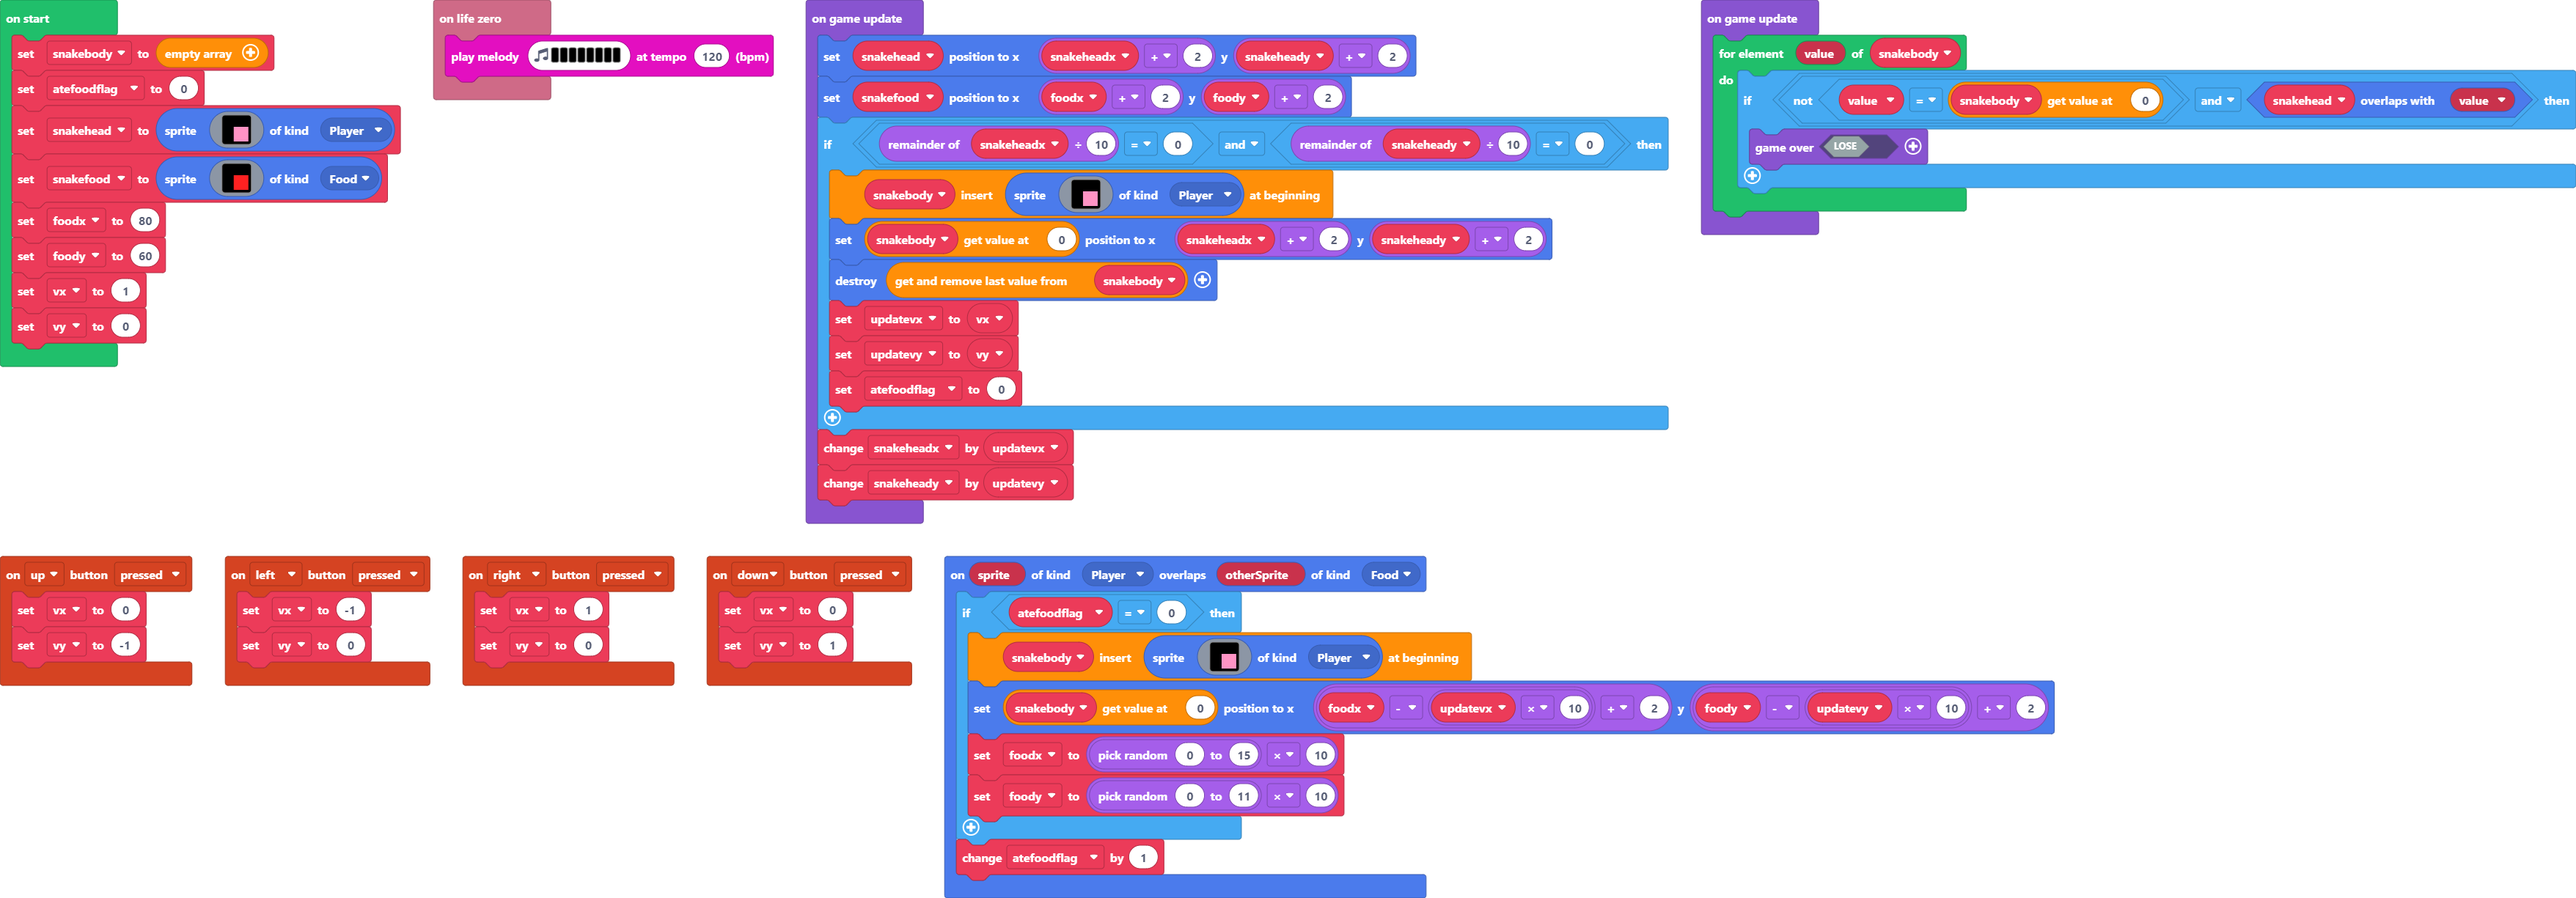
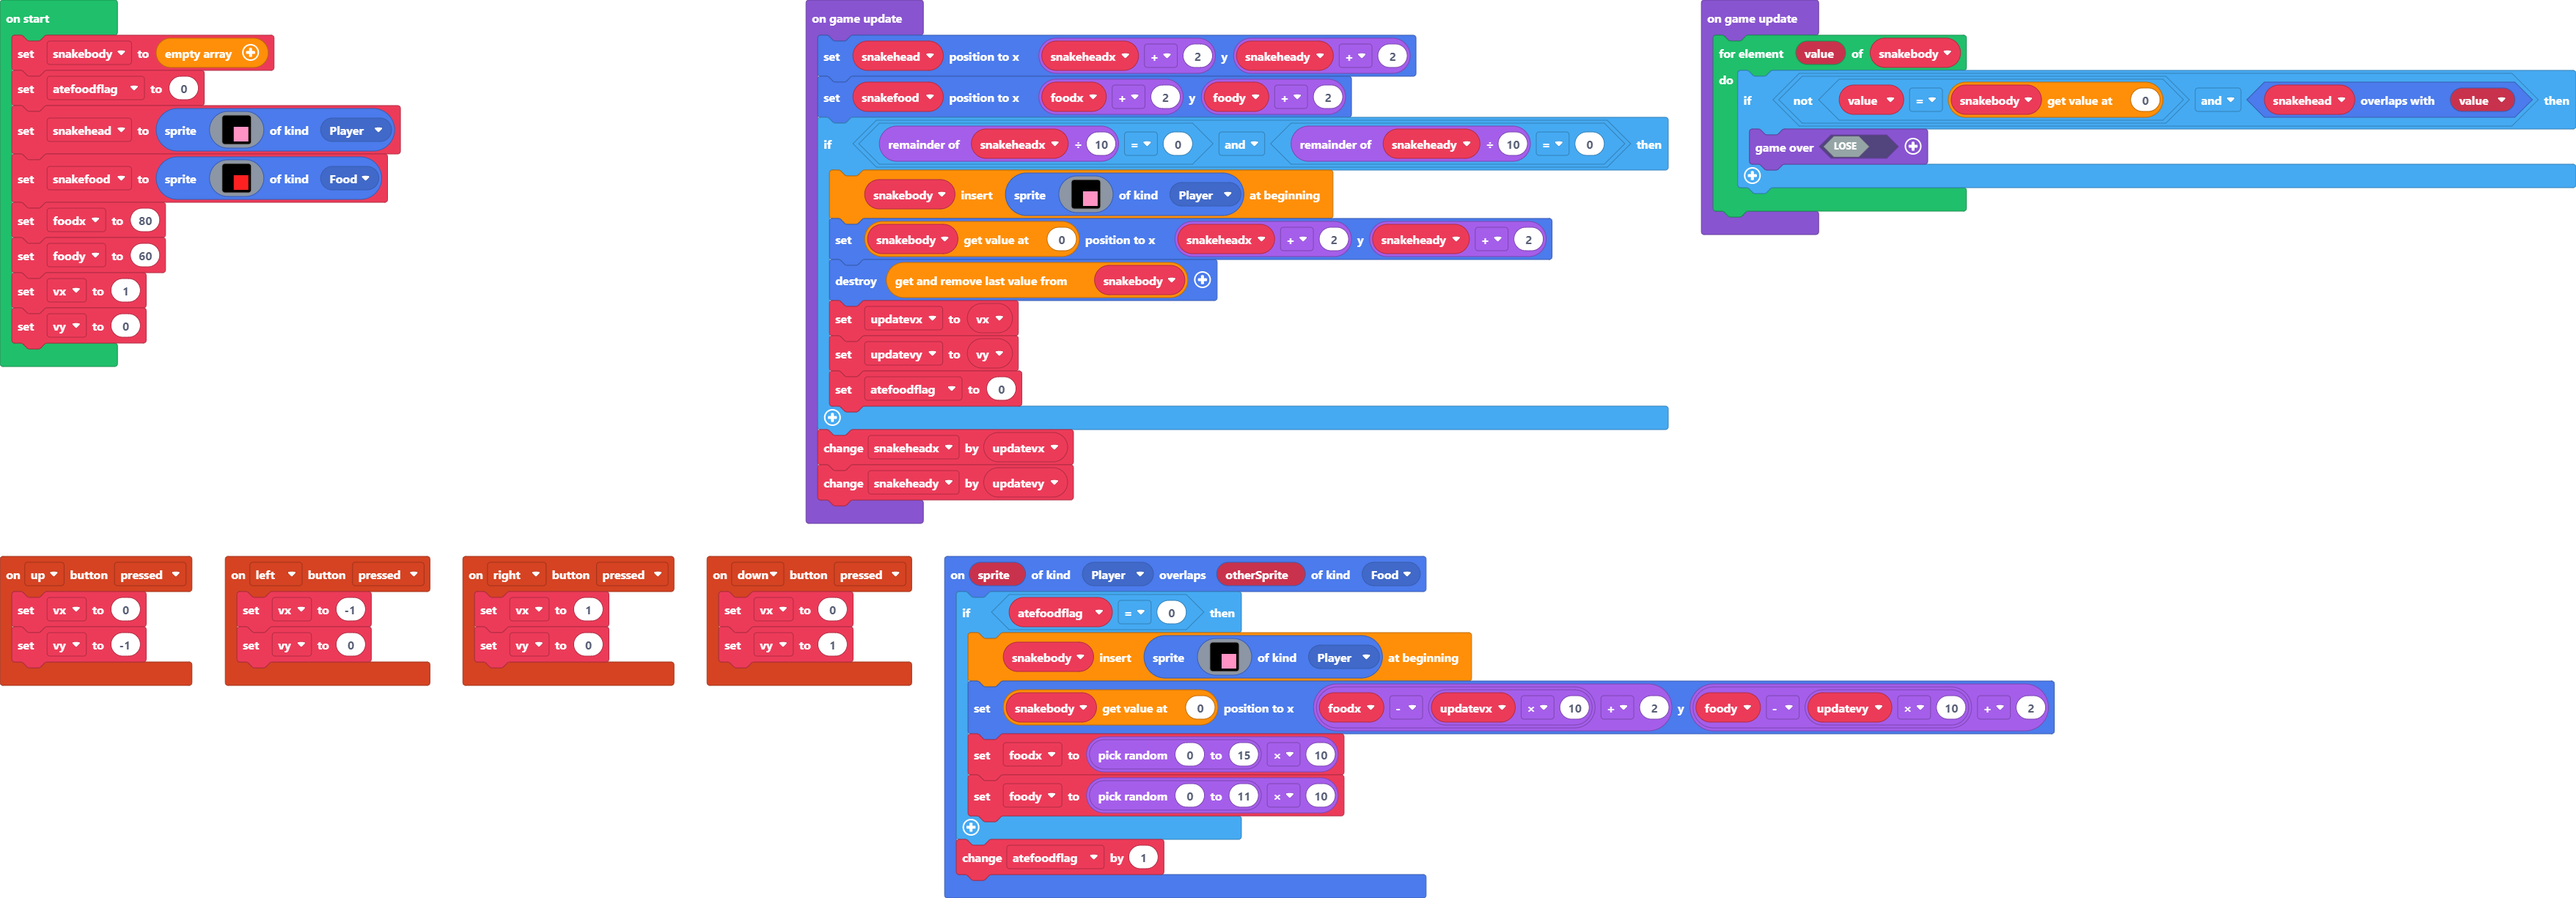
removed music block

Changed region(s): [[0.1551, 0.0, 0.3103, 0.1241]]

diff --git a/main.ts b/main.ts
@@ -14,9 +14,6 @@ controller.down.onEvent(ControllerButtonEvent.Pressed, function () {
     vx = 0
     vy = 1
 })
-info.onLifeZero(function () {
-    music.playMelody("A F E F D G E F ", 120)
-})
 sprites.onOverlap(SpriteKind.Player, SpriteKind.Food, function (sprite, otherSprite) {
     if (atefoodflag == 0) {
         snakebody.unshift(sprites.create(img`
